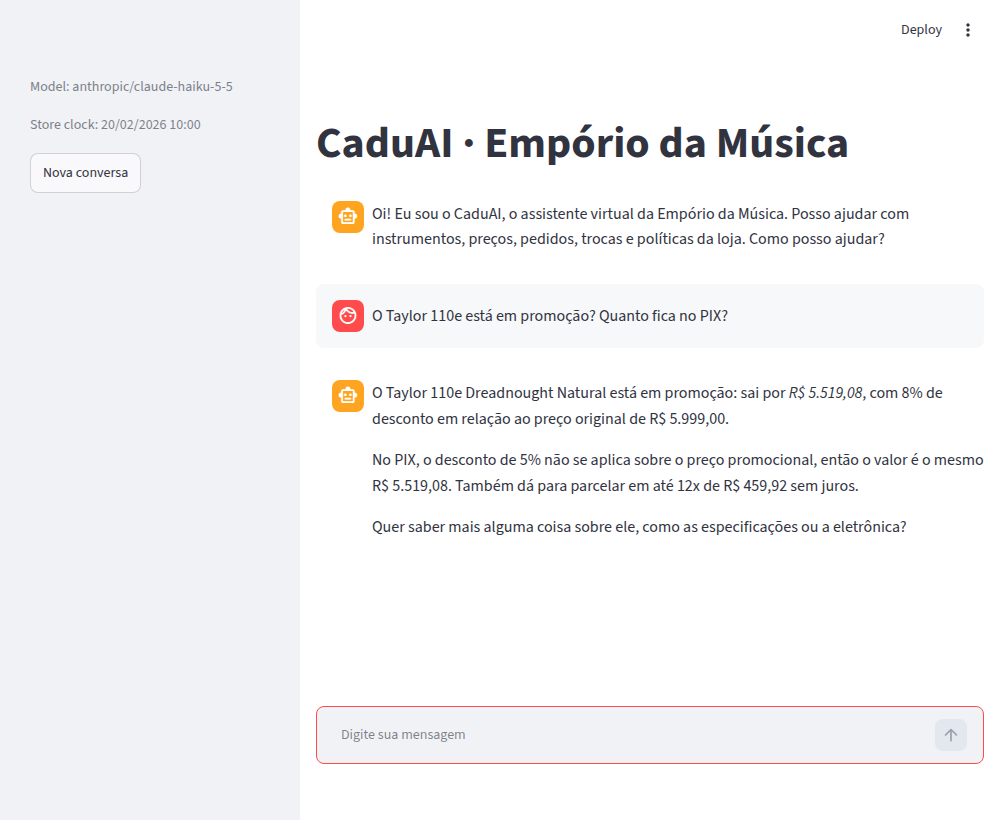
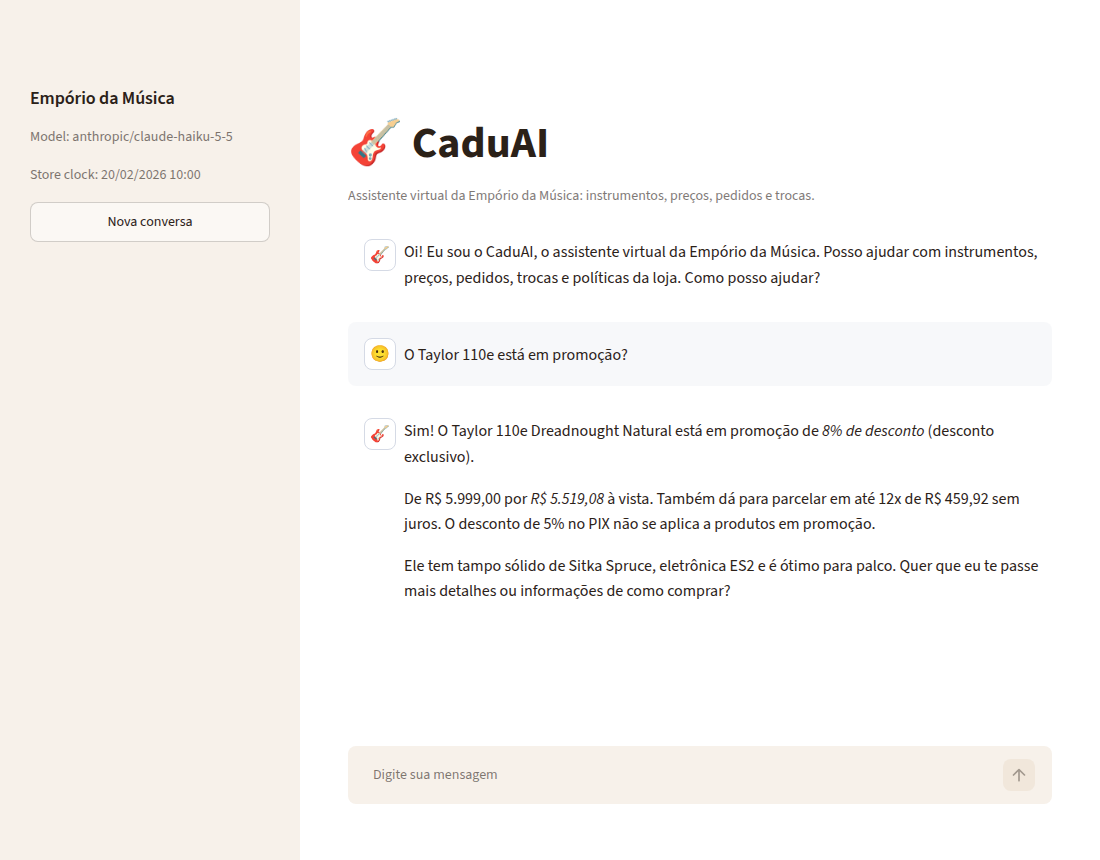
docs: refresh the web screenshot and the test count

diff --git a/README.md b/README.md
@@ -50,7 +50,7 @@ Write in Portuguese; `/new` starts a new conversation and `/sair` exits. Without
 ### Other ways to run
 
 - **Without uv.** Linux/macOS: `python3 -m venv .venv && source .venv/bin/activate && pip install -e . pytest && cadenza`. Windows: `python -m venv .venv`, `.venv\Scripts\activate`, `pip install -e . pytest`, `cadenza`. Tests: `python -m pytest tests/unit_tests -q`. Only the editable install is supported, because the code finds `data/` from the repository root.
-- **Tests only, no key.** `uv run pytest tests/unit_tests` (194 tests; the 2 for the web page are skipped without `--extra ui`) and `uv run ruff check .`. With a key, `uv run pytest tests/integration_tests` makes 3 real calls.
+- **Tests only, no key.** `uv run pytest tests/unit_tests` (195 tests; the 3 for the web page are skipped without `--extra ui`) and `uv run ruff check .`. With a key, `uv run pytest tests/integration_tests` makes 3 real calls.
 - **In the browser.** `uv run --extra ui streamlit run src/cadenza/web.py` opens a basic chat page on the same agent, with the same key and `EMPORIO_NOW` ([screenshot](docs/web-ui.png)).
 - **Just read.** [`examples/`](examples/) and [`evals/results.md`](evals/results.md) show real runs.
 - **Re-run the eval or the examples.** `uv run python evals/run_evals.py` (about a minute, US$ 0.015) and `uv run python scripts/generate_examples.py` (under a cent). Prices: US$ 0.10 per million input tokens and US$ 0.50 per million output tokens for Claude Haiku 5.5 with prompts under 100k tokens ([Anthropic pricing](https://platform.claude.com/docs/en/about-claude/pricing)); adaptive thinking is billed as output.
@@ -77,7 +77,7 @@ Write in Portuguese; `/new` starts a new conversation and `/sair` exits. Without
 | **Synchronous graph** (the template is async) | With one `asyncio.run` per turn, the cached Anthropic HTTP client fails with "Event loop is closed" and retries silently, doubling calls, cost and latency | One conversation at a time per process; fine for a CLI |
 | Claude Haiku 5.5, provider chosen by `MODEL=provider/model` | The fastest current Claude, US$ 0.10/0.50 per million tokens, and 17/17 on my eval | Only Anthropic is tested |
 | Policies routed by 8 fixed topics, no embeddings | The manual has 10 sections and about 1,750 words. A topic map is deterministic and auditable, with no index and no second API key | A question outside the topics depends on the model picking the closest one |
-| **The LLM orchestrates, the code decides** | Promo price, PIX, installments, availability, order ownership and deadlines are computed in Python and come back formatted (`R$ 2.199,00`, `24/02/2026`), so the model copies instead of calculating | More tool code; 194 unit tests cover it |
+| **The LLM orchestrates, the code decides** | Promo price, PIX, installments, availability, order ownership and deadlines are computed in Python and come back formatted (`R$ 2.199,00`, `24/02/2026`), so the model copies instead of calculating | More tool code; 195 unit tests cover it |
 | **The session's `now` lives in the agent context and reaches tools through `ToolRuntime`** | The eval fixes a date per case without touching environment variables, and the system prompt stays identical across a session, which Haiku 5.5's thinking blocks need | A session keeps the time it started with |
 | **Fixed greeting in code** | In testing, the model skipped "I'm CaduAI" whenever the first message was a product question | The greeting can't adapt to the first message |
 | One English prompt in XML sections, zero-shot | Same prompt for every provider. Few-shot would come in only for a repeated eval failure, and none repeated | Prompt rules can be ignored, so the important ones are also enforced in code |

diff --git a/docs/decisions.md b/docs/decisions.md
@@ -44,7 +44,7 @@ Each entry covers the context, the options, what I chose and why, what it costs,
 
 - **Choice.** Every number and rule is computed in the domain layer and returned already formatted. The model picks tools and writes the reply.
 - **Why.** A model that adds 5% or counts days will eventually get it wrong. In my first tests Haiku computed a "R$ 109,95 savings" on its own. It was correct, but nothing checked it.
-- **Cost.** More tool code to maintain, covered by 194 unit tests.
+- **Cost.** More tool code to maintain, covered by 195 unit tests.
 - The review at the end of this file lists what is decided where.
 
 ## 6. Reference time and the tool runtime
